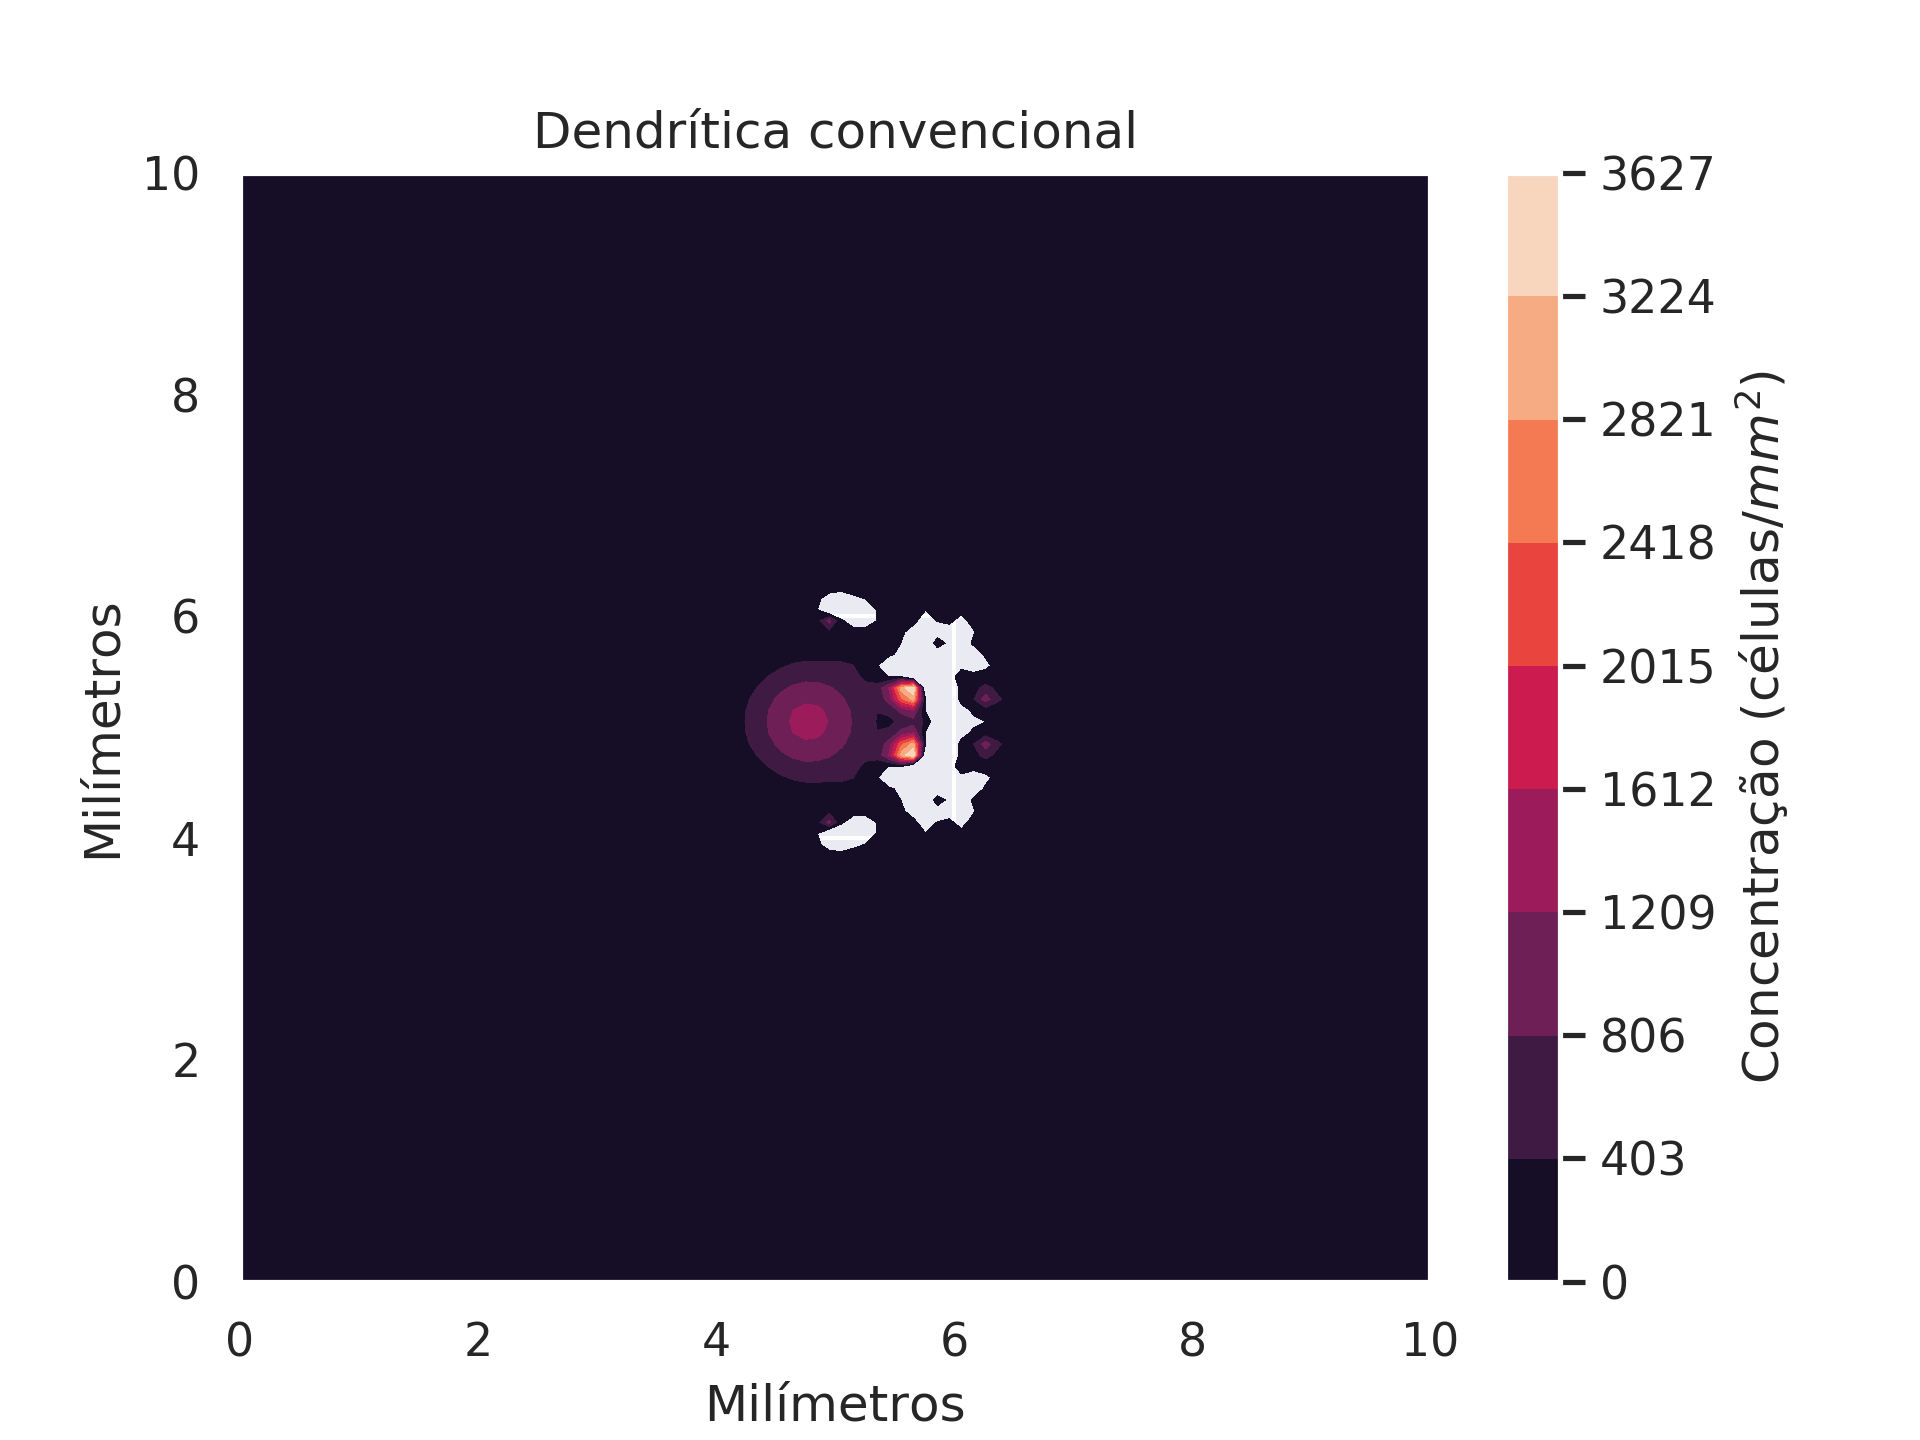
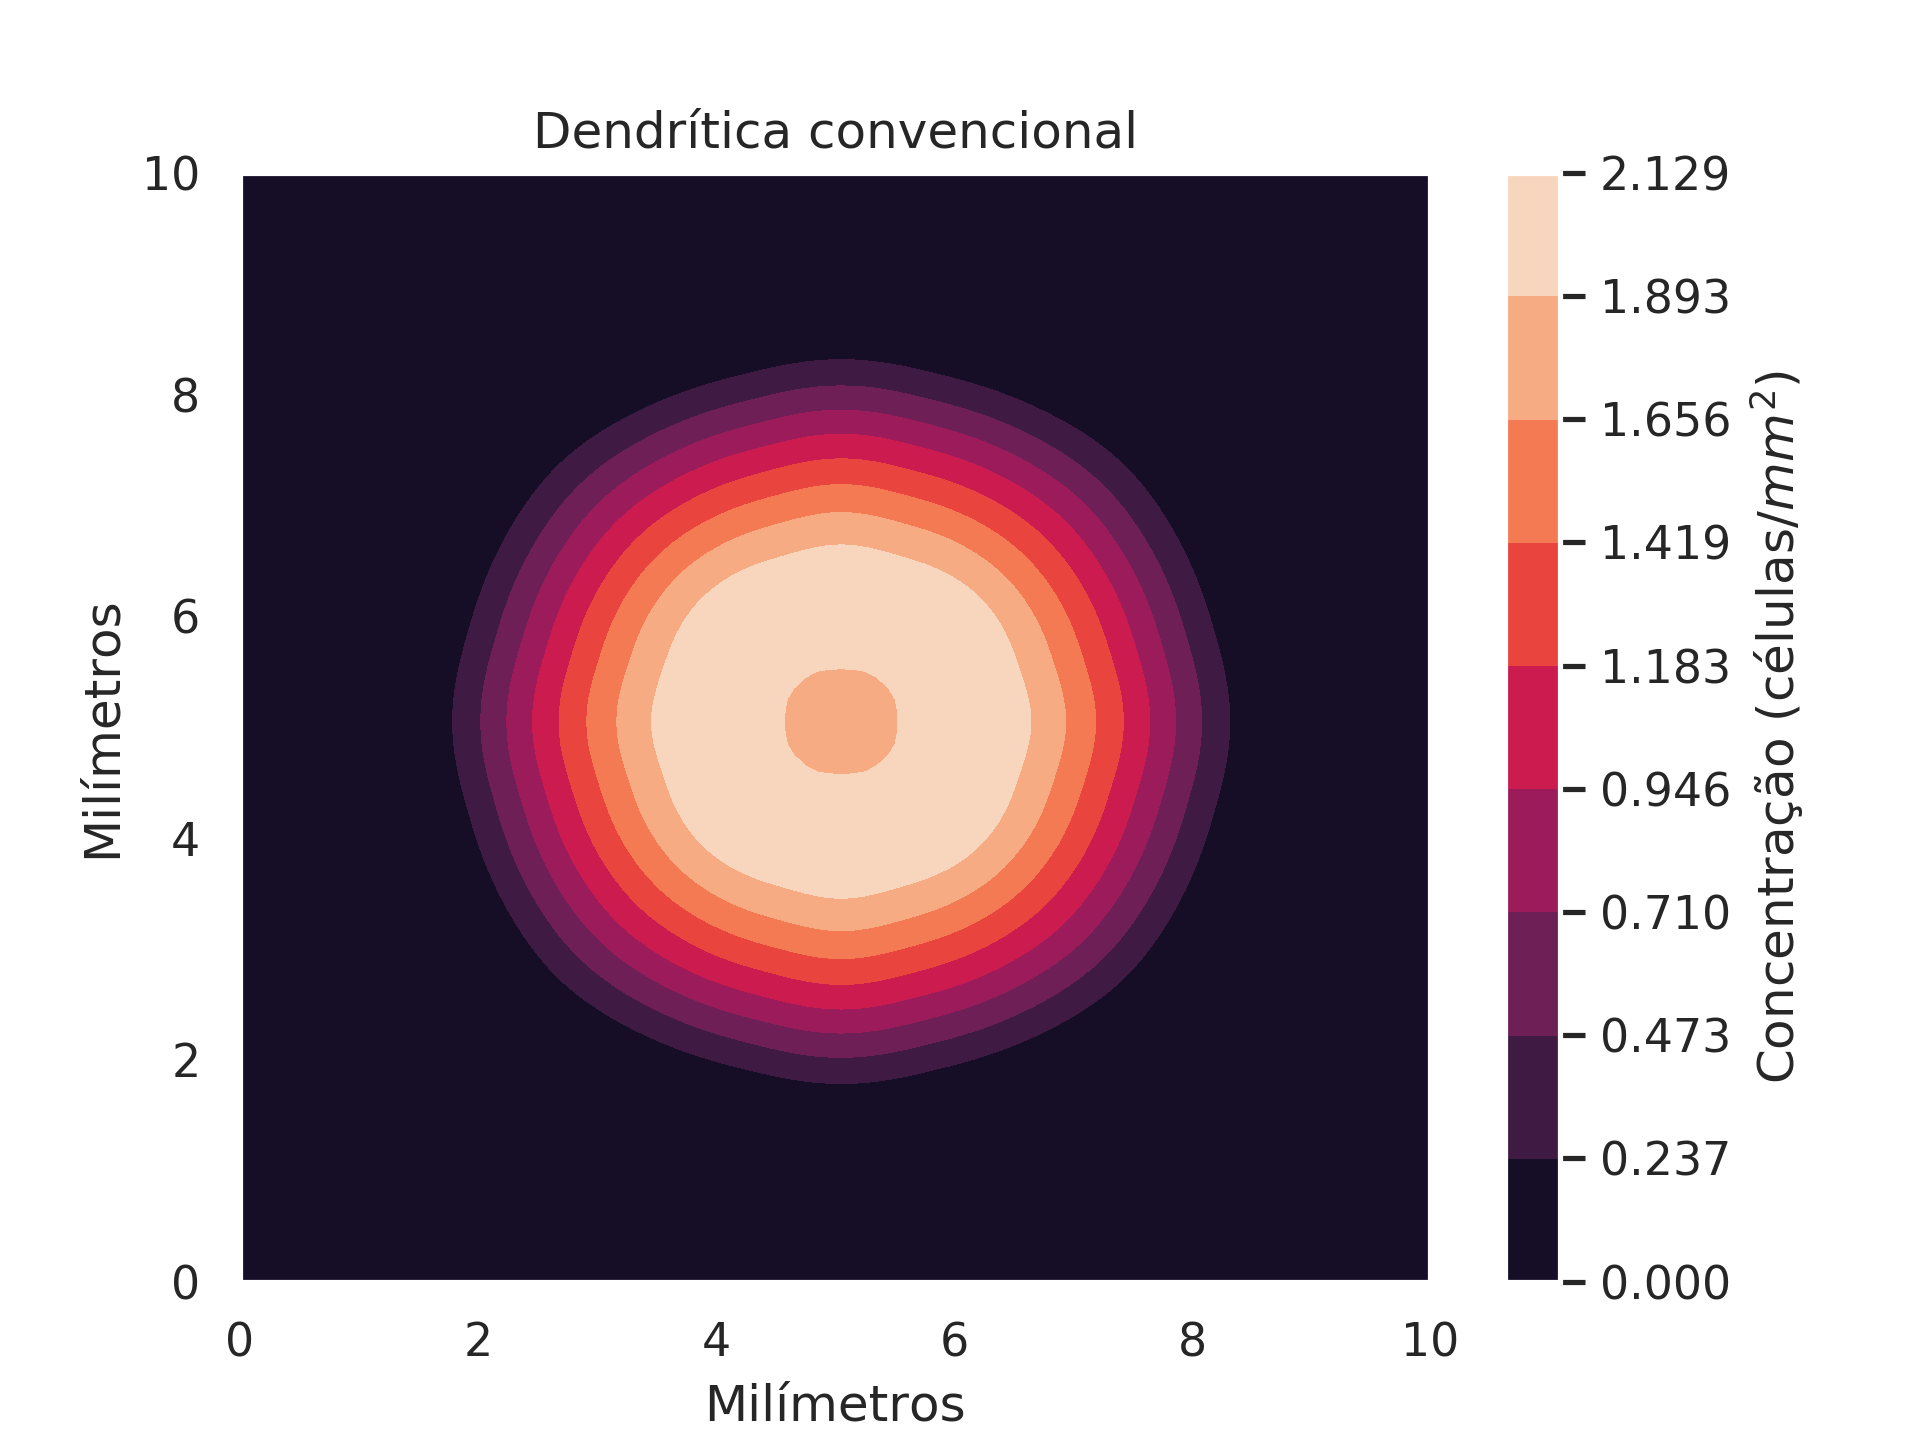
teste sem quimiotaxia nas DC deu certo

diff --git a/src/modelo_populações_completo.py b/src/modelo_populações_completo.py
@@ -108,7 +108,7 @@ for i in range(int(L/h_x)):
             AnticorposTecido += anticorpo_anterior[i][j]
             TcitotoxicaTecido += t_cito_anterior[i][j]
 
-#**********************Funcoes print dos resultados*************************
+#**********************Funcao print dos resultados*************************
 
 populationTitle = {
     "odc": "Oligodendrócitos destruídos",
@@ -147,7 +147,7 @@ parameters = {
     "d_t_cit": 60*24*6.6*10**-5, # difusao t citotóxica(procurar na literatura)
     "d_anti": 60*24*6.6*10**-5, # difusao anticorpo(procurar na literatura)
     "lamb_f_m": 60*24*3.96*10**-6, # taxa de anticorpos consumidos durante o processo de opsonização pela micróglia
-    "b_d": 0.0001, # taxa de ativacao de dc por odc destruidos(procurar na literatura)
+    "b_d": 0.001, # taxa de ativacao de dc por odc destruidos(procurar na literatura)
     "r_dc": 0.001, # taxa de coleta de odc destruidos pelas DCs (procurar na literatura)
     "r_t": 0.1 , # agressividade de t citotoxica(procurar na literatura)
 
@@ -311,7 +311,7 @@ for k in range(1,steps):
             # anticorpo_atual[i][j] = anticorpo + h_t*(difusao_anticorpo + reacao_anticorpo + migracao_anticorpo)
 
             #DC convencional
-            quimiotaxia_dc = parameters["chi"]*(gradiente_odc_i*gradiente_dc_i + gradiente_odc_j*gradiente_dc_j)
+            quimiotaxia_dc = 0# parameters["chi"]*(gradiente_odc_i*gradiente_dc_i + gradiente_odc_j*gradiente_dc_j)
             difusao_dc = parameters["d_dc"]*(dc_ipj + dc_imj - 4*dc + dc_ijp + dc_ijm )/h_x**2
             reacao_dc = parameters["mu_dc"]*oligo_destr*(dc_media - dc)
             ativacao_dc_da = parameters["b_d"]*oligo_destr*dc
@@ -320,7 +320,7 @@ for k in range(1,steps):
             
             #DC ativada
             difusao_da = parameters["d_da"]*(da_ipj + da_imj - 4*da + da_ijp + da_ijm)/h_x**2
-            migracao_da = 0 #theta_LV[i][j]*parameters["gamma_D"]*(DL_atual - da)
+            migracao_da = theta_LV[i][j]*parameters["gamma_D"]*(DL_atual - da)
 
             dendritica_ativ_atual[i][j] = da + h_t*(difusao_da + ativacao_dc_da + migracao_da)
             if microglia < 0:
@@ -374,9 +374,9 @@ for k in range(1,steps):
 #Fim da contagem do tempo
 toc = time.perf_counter()
 
-final_time = (toc - tic)*10**6
+final_time = (toc - tic)/60
 
-print("Tempo de execução: " + str(final_time) + " s")
+print("Tempo de execução: " + str(final_time) + " min")
 
 #Transforma de dias para horas no plot
 t = np.multiply(t,24)
